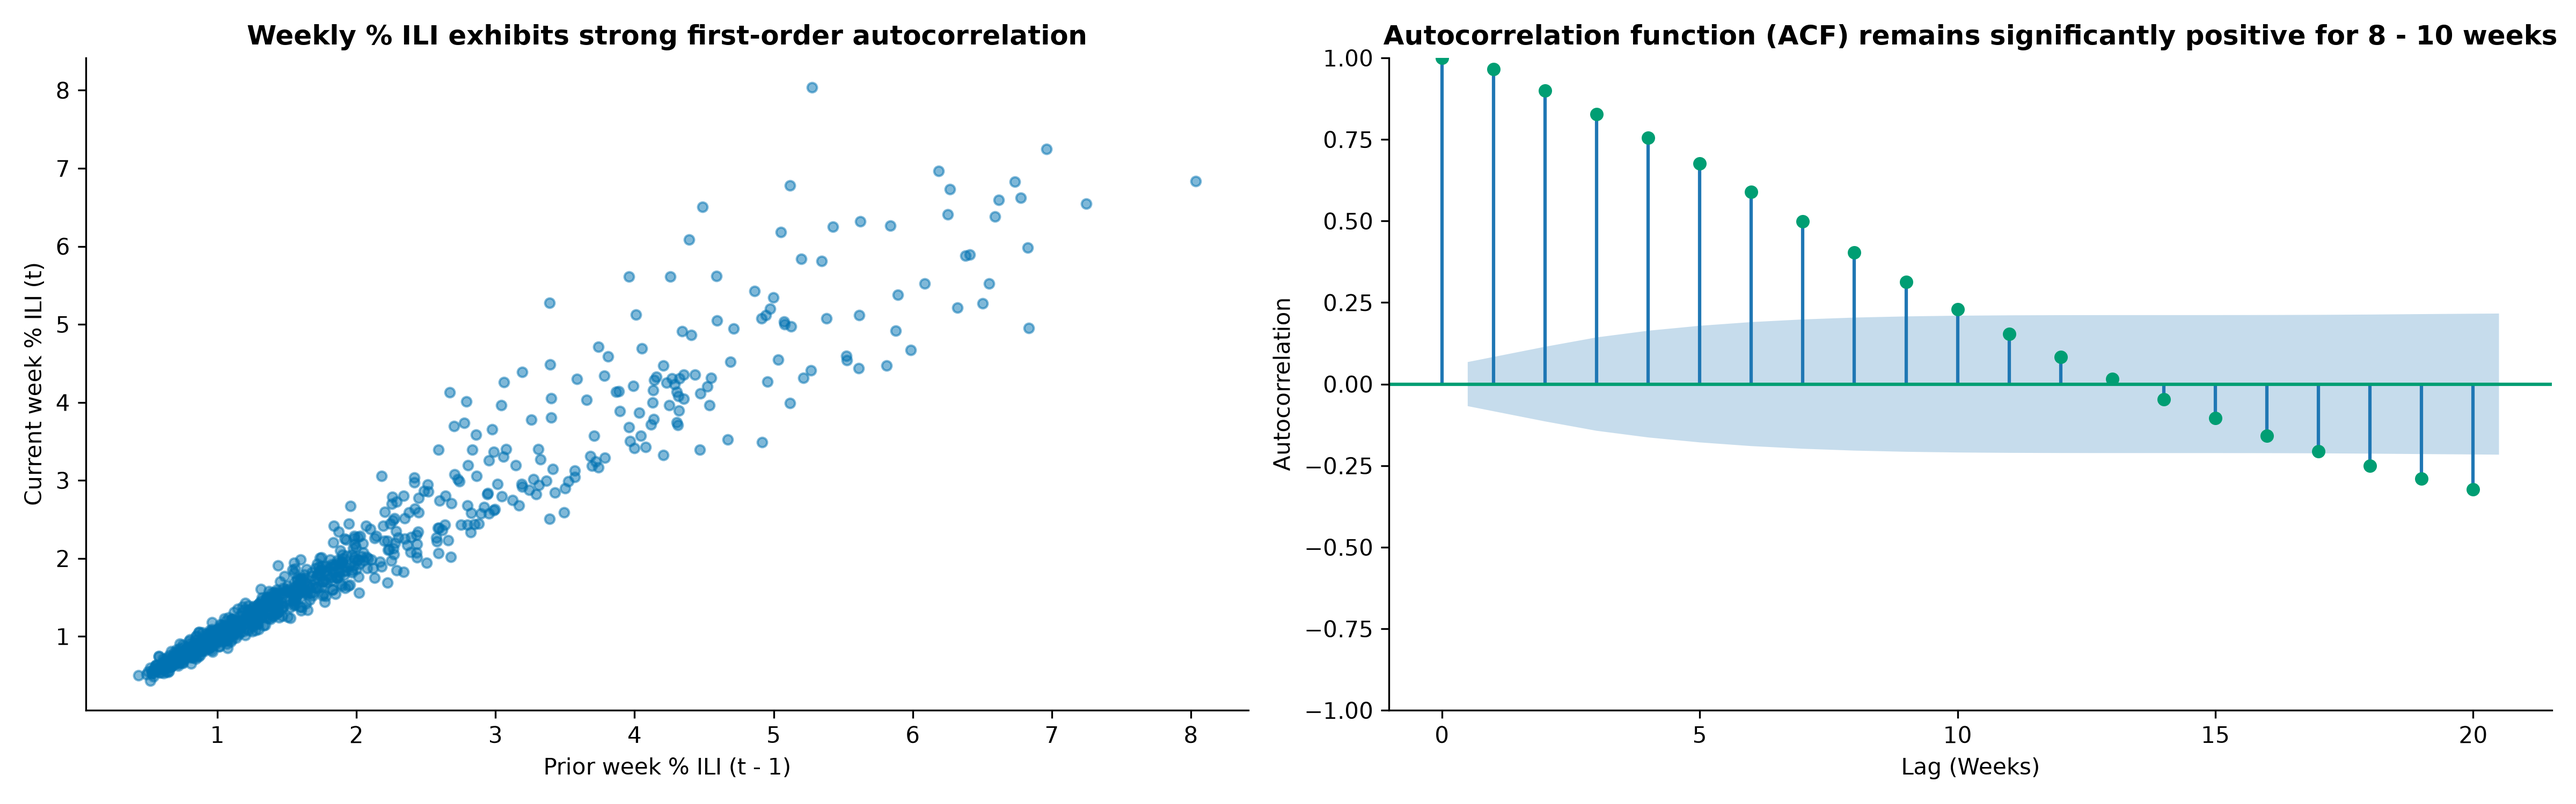
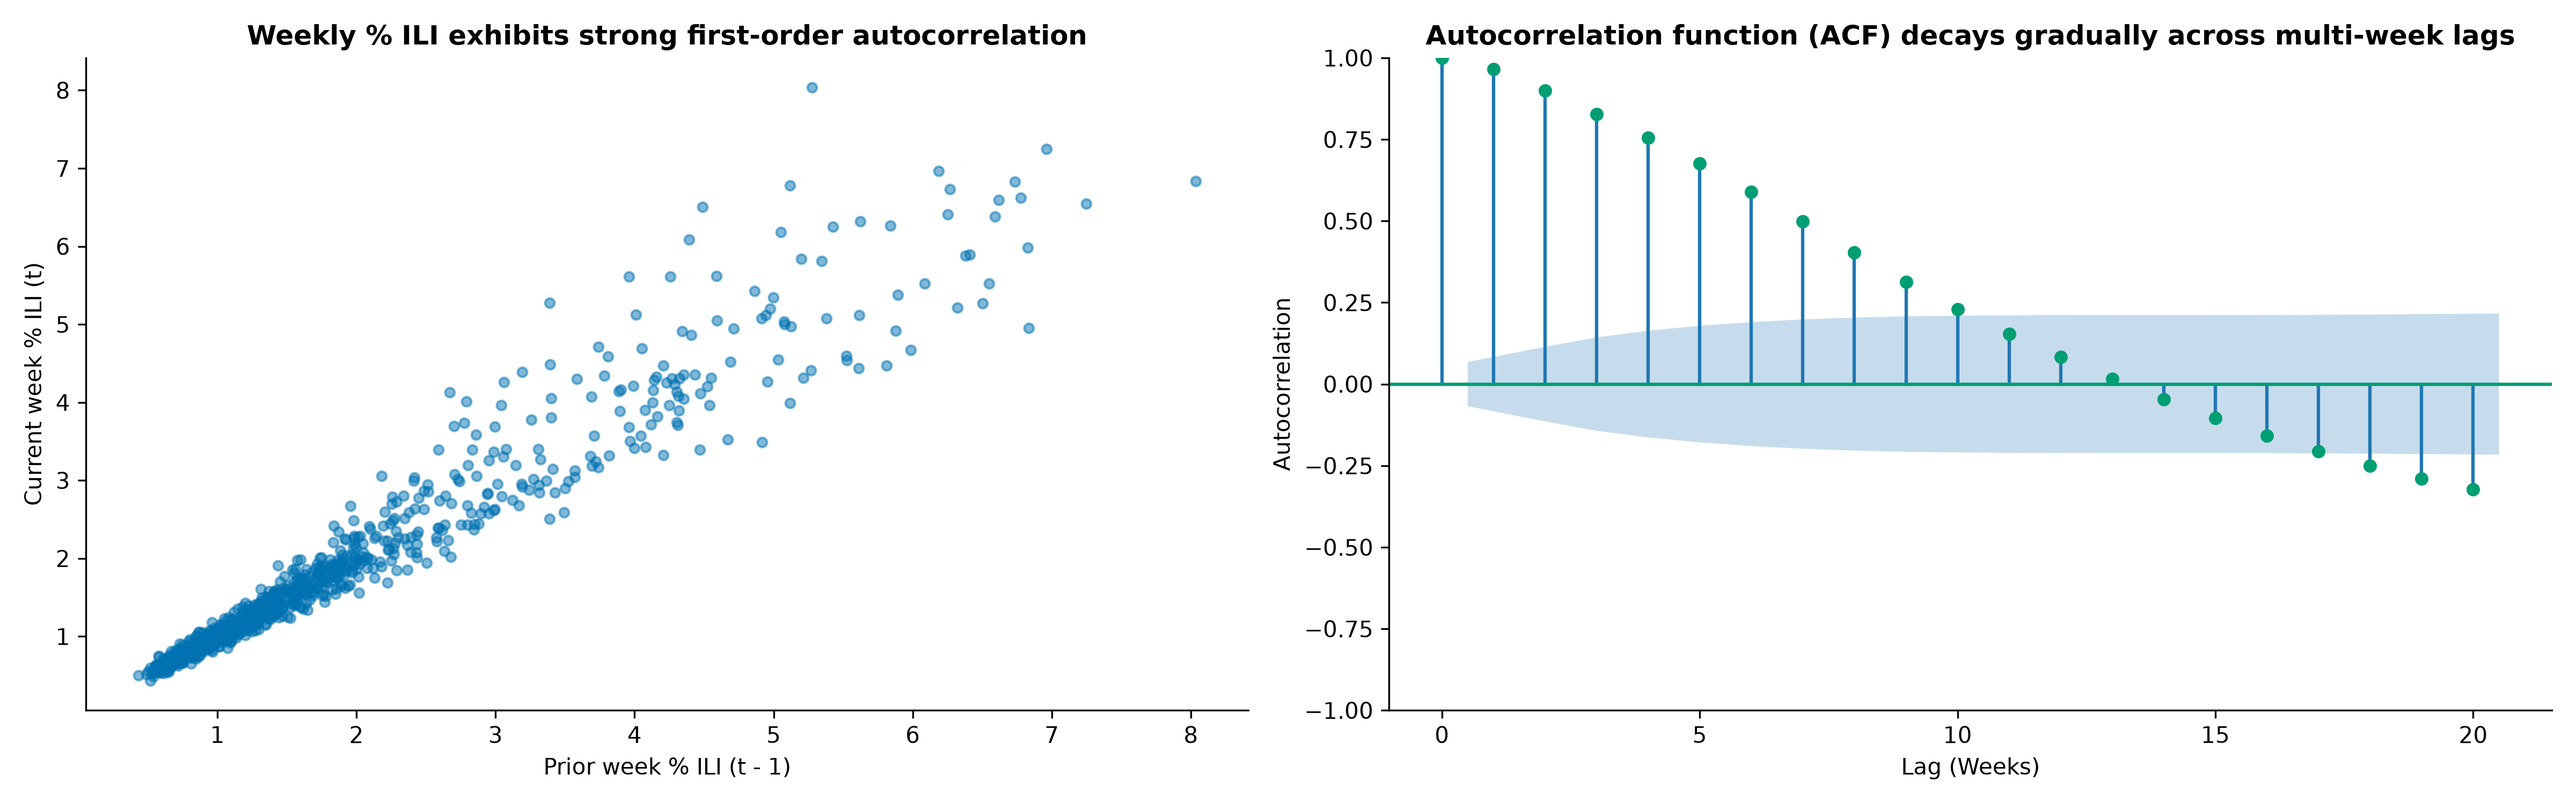
update

Changed region(s): [[0.5312, 0.0307, 1.0, 0.0613], [0.2188, 0.4907, 0.25, 0.5213], [0.125, 0.644, 0.1562, 0.6747]]

diff --git a/src/fluwatch/seasonality/plots.py b/src/fluwatch/seasonality/plots.py
@@ -56,7 +56,7 @@ def plot_season_overlay(df: pd.DataFrame, output_dir: Path, current_season: str 
         else:
             ax.plot(grp['season_week'], grp['ili_pct'], color='#BDBDBD', alpha=0.6, linewidth=1.2)
 
-    ax.set_title(f"National % ILI trajectory comparing early season {current_season} against historical seasons")
+    ax.set_title(f"National % ILI trajectory of {current_season} compared against historical seasonal patterns")
     ax.set_xlabel("Season week (Starting from MMWR week 40)")
     ax.set_ylabel("Mean outpatient visits for ILI (%)")
     ax.set_xlim(1, 55)
@@ -74,7 +74,7 @@ def plot_severity_boxplot(milestones: pd.DataFrame, output_dir: Path):
     sub = sub[sub['signal_source'] == 'ILINet'].sort_values('season')
 
     sns.boxplot(data=sub, x='season', y='peak_value', color='#56B4E9', ax=ax, fliersize=3)
-    ax.set_title("Peak influenza severity varies substantially across seasons and reached a record high in 2024-25")
+    ax.set_title("Seasonal peak % ILI varies substantially across years with higher medians in recent seasons")
     ax.set_xlabel("Flu season")
     ax.set_ylabel("Seasonal peak outpatient ILI (%)")
     plt.xticks(rotation=30)
@@ -88,13 +88,13 @@ def plot_onset_distribution(milestones: pd.DataFrame, output_dir: Path):
     setup_style()
 
     fig, ax = plt.subplots(figsize=(10, 5))
-    sub = milestones[(~milestones['season'].isin(EXCLUDE_SEASON)) & (milestones['onset_week'].notna())]
+    sub = milestones[(~milestones['season'].isin(EXCLUDE_SEASON + ['2026-27'])) & (milestones['onset_week'].notna())]
 
     ax.hist(sub['onset_week'], bins=20, color='#0072B2', edgecolor='white', alpha=0.85)
     median_w = sub['onset_week'].median()
     ax.axvline(median_w, color='#D55E00', linestyle='--', linewidth=2)
     ax.text(median_w + 0.3, ax.get_ylim()[1] * 0.9, f"Median: Week {int(median_w)}", color='#D55E00', fontweight='bold')
-    ax.set_title("Half of state-seasons cross the epidemic onset threshold by season week 7")
+    ax.set_title("State-season epidemic onset timing is right-skewed and concentrated in the first half of the season")
     ax.set_xlabel("Onset week (Weeks since MMWR week 40)")
     ax.set_ylabel("State-Season count")
 
@@ -114,7 +114,7 @@ def plot_lag_and_acf(df: pd.DataFrame, output_dir: Path):
     ax[0].set_ylabel("Current week % ILI (t)")
 
     plot_acf(nat, lags=20, ax=ax[1], color='#009E73')
-    ax[1].set_title("Autocorrelation function (ACF) remains significantly positive for 8 - 10 weeks")
+    ax[1].set_title("Autocorrelation function (ACF) decays gradually across multi-week lags")
     ax[1].set_xlabel("Lag (Weeks)")
     ax[1].set_ylabel("Autocorrelation")
 
@@ -158,7 +158,7 @@ def plot_cluster_dendrogram(Z: np.ndarray, state_labels: list, output_dir: Path)
         color_threshold=0.7 * max(Z[:, 2])
     )
 
-    ax.set_title("Hierarchical clustering groups 51 jurisdictions by seasonal epidemic curve shape")
+    ax.set_title(f"Hierarchical clustering groups {len(state_labels)} jurisdictions by normalized seasonal curve shape")
     ax.set_xlabel("State")
     ax.set_ylabel("Ward linkage distance (Z-score normalized curves)")
 

diff --git a/src/fluwatch/seasonality/milestones.py b/src/fluwatch/seasonality/milestones.py
@@ -2,6 +2,12 @@ import numpy as np
 import pandas as pd
 
 
+def mask_sparse_ili(df: pd.DataFrame, max_missing_ratio=0.3):
+    df = df.copy()
+    missing_ratio = df.groupby(['state', 'season'])['ili_pct'].transform(lambda s: s.isna().mean())
+    df.loc[missing_ratio > max_missing_ratio, 'ili_pct'] = np.nan
+    return df
+
 def prepare_signal(df: pd.DataFrame):
     df = df.copy()
     df['signal_value'] = df['ili_pct']
@@ -28,7 +34,6 @@ def compute_baselines(df: pd.DataFrame):
                 'season': season,
                 'baseline': np.nan
             })
-
             continue
 
         if source == 'NSSP':

diff --git a/pipelines/03_season_eda.py b/pipelines/03_season_eda.py
@@ -12,7 +12,7 @@ FIG_DIR = ROOT / 'reports' / 'figures'
 FIG_DIR.mkdir(parents=True, exist_ok=True)
 
 print("1. Đang tải dữ liệu từ tầng warehouse")
-df_week = load_flu_week()
+df_week = mask_sparse_ili(load_flu_week())
 dim_state = load_dim_state()
 
 print("2. Tính toán baseline, tuần khởi phát, tuần đỉnh và giai đoạn mùa")
